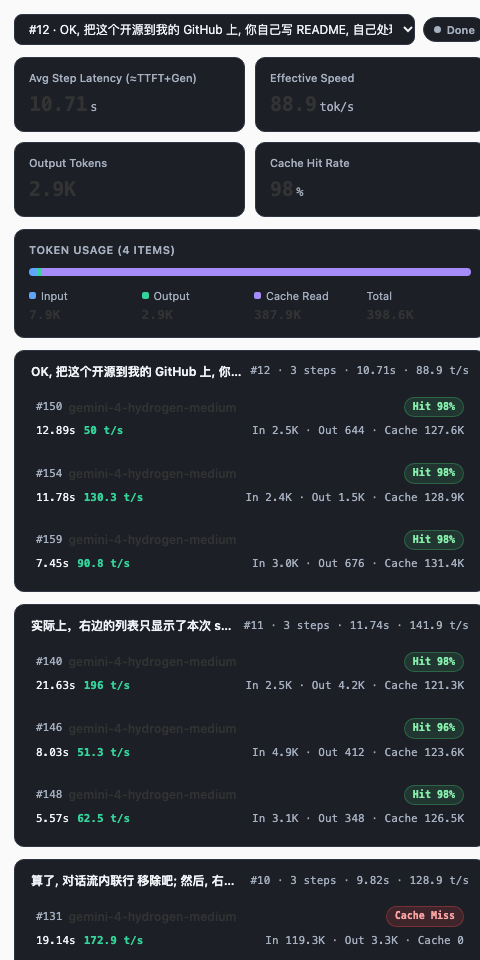
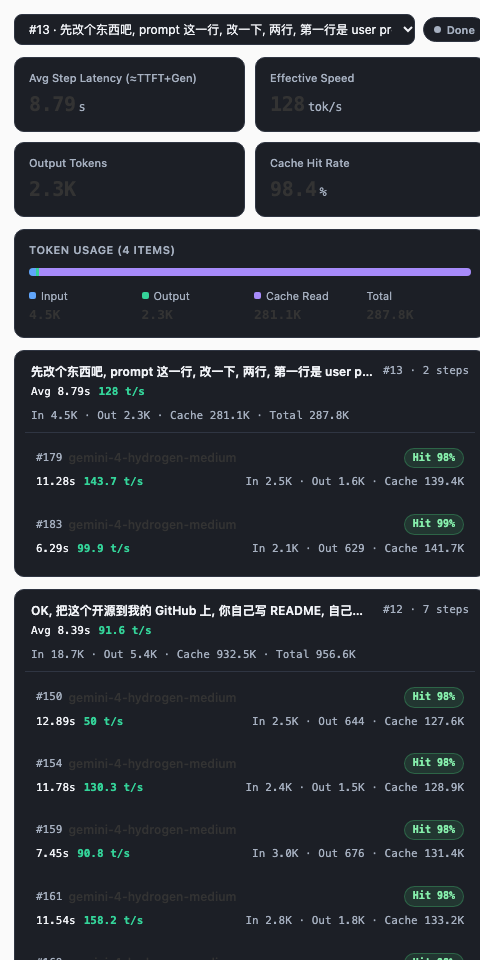
feat: two-line run header with avg latency, speed, and 4-item token summary

diff --git a/sidecars/telemetry_pane/index.html b/sidecars/telemetry_pane/index.html
@@ -200,10 +200,18 @@
     }
     .run-block-head {
       display: flex;
+      flex-direction: column;
+      gap: 4px;
+      padding: 2px 6px 8px;
+      border-bottom: 1px solid var(--rt-border);
+      margin-bottom: 6px;
+    }
+    .run-block-top {
+      display: flex;
       align-items: center;
       justify-content: space-between;
       gap: 8px;
-      padding: 2px 6px 8px;
+      min-width: 0;
     }
     .run-block-title {
       font-size: 12px;
@@ -214,12 +222,30 @@
       white-space: nowrap;
       min-width: 0;
     }
-    .run-block-meta {
+    .run-block-idx {
       font-family: var(--rt-mono);
       font-size: 11px;
       color: var(--rt-muted);
       white-space: nowrap;
       flex-shrink: 0;
+    }
+    .run-block-summary {
+      display: flex;
+      align-items: center;
+      justify-content: space-between;
+      gap: 8px;
+      flex-wrap: wrap;
+      font-family: var(--rt-mono);
+      font-size: 11px;
+    }
+    .run-block-perf {
+      display: flex;
+      align-items: center;
+      gap: 8px;
+    }
+    .run-block-tok {
+      color: var(--rt-muted);
+      white-space: nowrap;
     }
     .step-list {
       display: flex;
@@ -464,15 +490,24 @@
           }).join('');
 
           const title = r.promptPreview || `Run #${r.runIndex}`;
-          const metaParts = [`#${r.runIndex}`, `${r.stepCount} steps`];
-          if (r.avgLatencyMs !== null) metaParts.push(fmtMsPlain(r.avgLatencyMs));
-          if (r.effectiveTps !== null) metaParts.push(`${r.effectiveTps} t/s`);
+          const avgLat = r.avgLatencyMs !== null ? fmtMsPlain(r.avgLatencyMs) : '—';
+          const avgTps = r.effectiveTps !== null ? `${r.effectiveTps} t/s` : '—';
+          const runTok = `In ${fmtNum(r.inputTokens)} · Out ${fmtNum(r.outputTokens)} · Cache ${fmtNum(r.cacheReadTokens)} · Total ${fmtNum(r.totalTokens)}`;
 
           return `
             <div class="card steps-card">
               <div class="run-block-head">
-                <div class="run-block-title" title="${escapeHtml(title)}">${escapeHtml(title)}</div>
-                <div class="run-block-meta">${metaParts.join(' · ')}</div>
+                <div class="run-block-top">
+                  <div class="run-block-title" title="${escapeHtml(title)}">${escapeHtml(title)}</div>
+                  <span class="run-block-idx">#${r.runIndex} · ${r.stepCount} steps</span>
+                </div>
+                <div class="run-block-summary">
+                  <div class="run-block-perf">
+                    <span class="step-lat">Avg ${avgLat}</span>
+                    <span class="step-tps">${avgTps}</span>
+                  </div>
+                  <span class="run-block-tok">${runTok}</span>
+                </div>
               </div>
               <div class="step-list">${stepsHtml}</div>
             </div>
